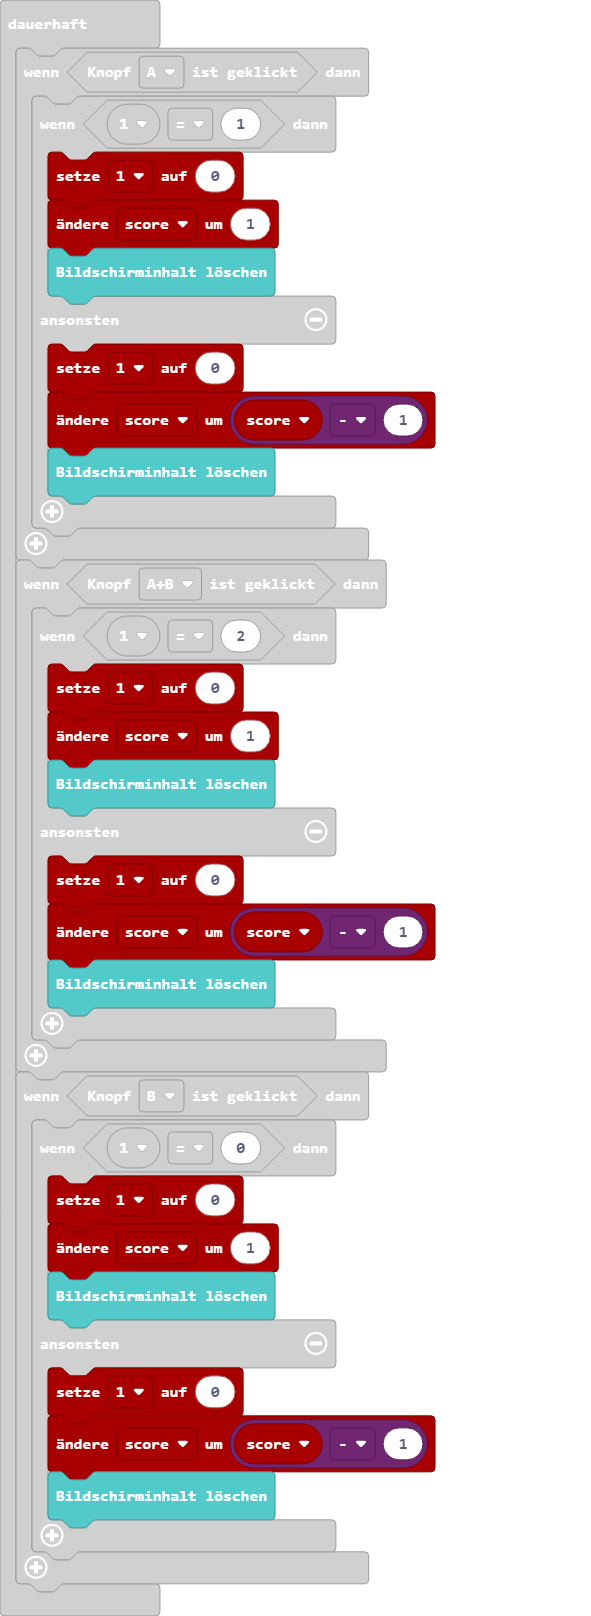
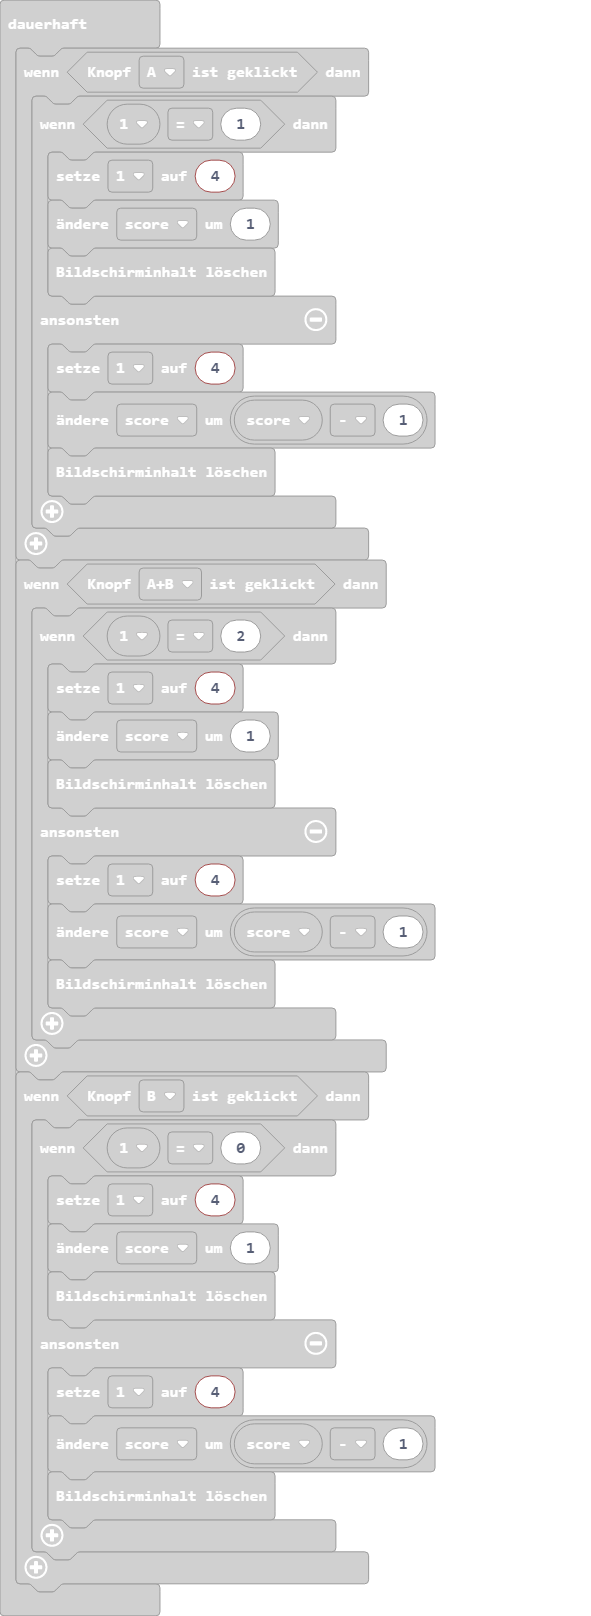
Aktualisiere main.blocks, main.ts

Changed region(s): [[0.0609, 0.7116, 0.7614, 0.9592], [0.0609, 0.4022, 0.7614, 0.6498], [0.0609, 0.0928, 0.7614, 0.3094]]

diff --git a/main.ts b/main.ts
@@ -41,33 +41,33 @@ basic.forever(function () {
 basic.forever(function () {
     if (input.buttonIsPressed(Button.A)) {
         if (_1 == 1) {
-            _1 = 0
+            _1 = 4
             score += 1
             basic.clearScreen()
         } else {
-            _1 = 0
+            _1 = 4
             score += score - 1
             basic.clearScreen()
         }
     }
     if (input.buttonIsPressed(Button.AB)) {
         if (_1 == 2) {
-            _1 = 0
+            _1 = 4
             score += 1
             basic.clearScreen()
         } else {
-            _1 = 0
+            _1 = 4
             score += score - 1
             basic.clearScreen()
         }
     }
     if (input.buttonIsPressed(Button.B)) {
         if (_1 == 0) {
-            _1 = 0
+            _1 = 4
             score += 1
             basic.clearScreen()
         } else {
-            _1 = 0
+            _1 = 4
             score += score - 1
             basic.clearScreen()
         }
